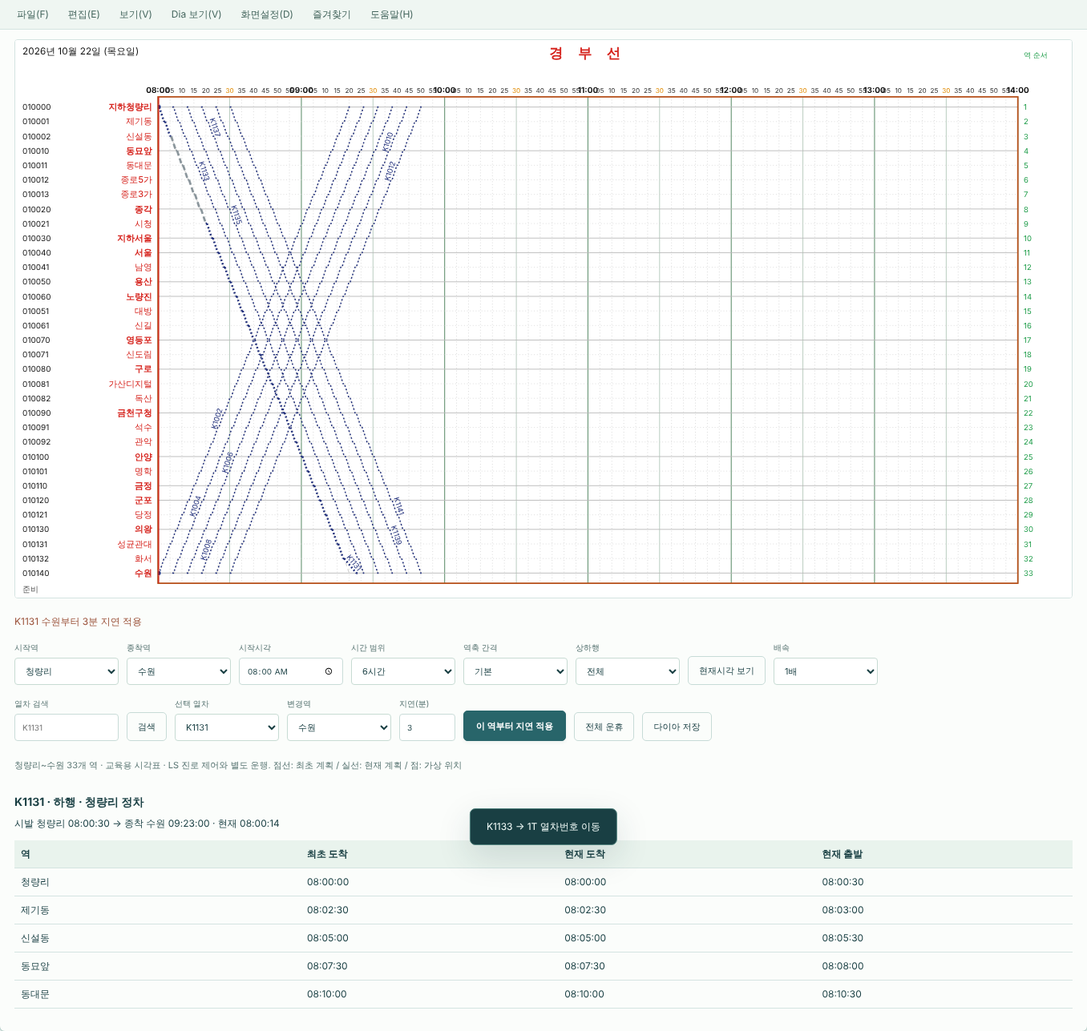
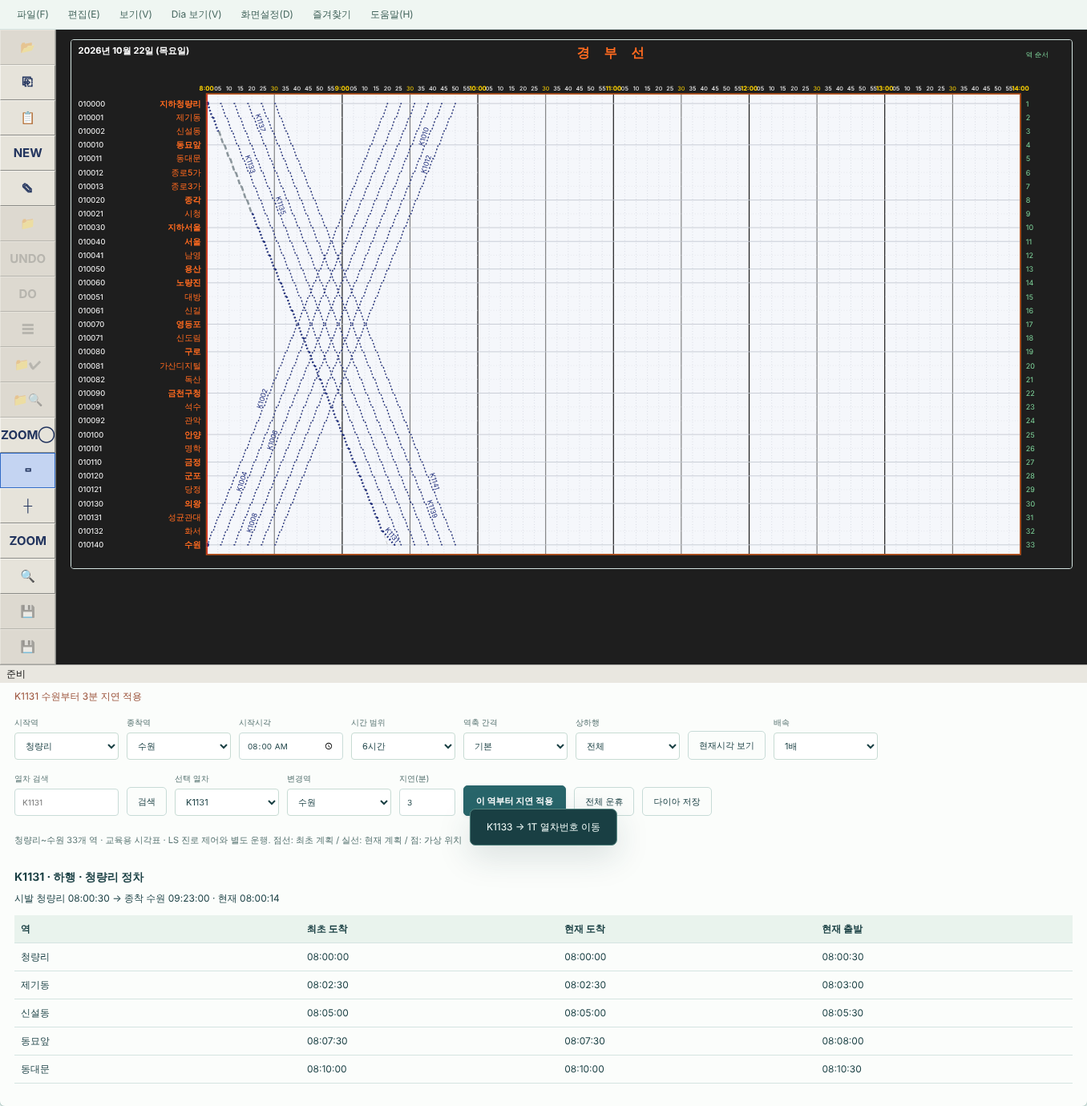
Match the T/G window to the real photos and record the 2026-10-22 photo findings
Dark label column and time band, icon toolbar, 편집 menu with shortcuts, crosshair, area zoom,
tooltip toggle, status bar. Adds references/mmi/photos-2026-10-22.md.

Claude-Session: https://claude.ai/code/session_016wg2Uchd4iKa4FQ1txHsNT

diff --git a/simulator/tg-tools.js b/simulator/tg-tools.js
@@ -1,0 +1,112 @@
+(function(root){
+'use strict';
+// Chrome of the real T/G window (photos 2026-10-21/22): menu bar, the vertical icon toolbar, a status bar ("준비").
+// Confirmed from the photos: the 편집(E) menu entries with their shortcuts and the tooltips 확대영역설정 / 툴팁 보기 / 십자선보기 /
+// 영역 확대 / 돋보기. The other icons are drawn in the photographed order but their functions were never seen, so they are
+// disabled. The behaviour behind the confirmed ones (area zoom, crosshair, …) is the simulator's own interpretation.
+const doc=document,$=id=>doc.getElementById(id),D=()=>root.SimDiagram,T=()=>root.SimTimetable,N=()=>root.SimNetwork;
+const SPANS=[30,60,120,360];
+let copied=null,area=null,areaMode=false,cross=false,graph=null;
+const status=text=>{$('tgStatus').textContent=text;};
+const selectedTrain=()=>$('graphTrain').value;
+
+// the icons in the order photographed (top to bottom); `known` ones are wired, the rest keep an honest "unknown" tooltip
+const TOOLS=[
+ {g:'📂',tip:'(기능명 미확인)'},
+ {g:'⎘',tip:'열차복사(C)',run:'copy'},{g:'📋',tip:'붙여놓기(V)',run:'paste'},{g:'NEW',tip:'열차생성(A)',run:'create'},{g:'✎',tip:'열차정보수정(F5)',run:'edit'},
+ {g:'📁',tip:'(기능명 미확인)'},{g:'UNDO',tip:'(기능명 미확인 · 구현하지 않음)'},{g:'DO',tip:'(기능명 미확인 · 구현하지 않음)'},{g:'☰',tip:'(기능명 미확인)'},
+ {g:'📁✔',tip:'(기능명 미확인)'},{g:'📁🔍',tip:'(기능명 미확인)'},
+ {g:'ZOOM◯',tip:'확대영역설정',run:'areaMode',cls:'area'},{g:'▭',tip:'툴팁 보기',run:'tooltips',cls:'tips'},{g:'┼',tip:'십자선보기',run:'cross',cls:'cross'},
+ {g:'ZOOM',tip:'영역 확대',run:'zoomArea'},{g:'🔍',tip:'돋보기',run:'magnify'},
+ {g:'💾',tip:'(기능명 미확인)'},{g:'💾',tip:'(기능명 미확인)'}
+];
+const MENUS=[
+ {label:'파일(F)'},
+ {label:'편집(E)',items:[{label:'열차복사(C)',key:'Ctrl+C',run:'copy'},{label:'붙여놓기(V)',key:'Ctrl+V',run:'paste'},{label:'열차생성(A)',key:'Ctrl+A',run:'create'},{label:'열차정보수정(F5)',key:'F5',run:'edit'},{label:'노트편집(N)',key:'Ctrl+N',run:'note'}]},
+ {label:'보기(V)'},{label:'Dia 보기(V)'},{label:'화면설정(D)'},{label:'즐겨찾기'},{label:'도움말(H)'}
+];
+
+const ACTIONS={
+ copy(){if(!selectedTrain())return;copied=selectedTrain();status(`${copied} 열차를 복사했습니다.`);},
+ paste(){if(!copied){status('복사한 열차가 없습니다.');return;}root.SimScheduleUI.open('copy',copied);status(`${copied} 복사 스케줄 창을 열었습니다.`);},
+ create(){root.SimScheduleUI.open('create');status('열차생성');},
+ edit(){root.SimScheduleUI.open('edit',selectedTrain());status(`${selectedTrain()} 열차정보수정`);},
+ note(){status('노트편집은 구현하지 않았습니다. 원본 화면을 확인하지 못했습니다.');},
+ tooltips(btn){const on=!(D().getOption('tooltips'));D().setOption('tooltips',on);btn?.setAttribute('aria-pressed',String(on));status(`툴팁 보기 ${on?'켬':'끔'}`);},
+ cross(btn){cross=!cross;btn?.setAttribute('aria-pressed',String(cross));if(!cross)doc.querySelector('#diaCross')?.remove();status(cross?'십자선보기 · 그래프 위에서 시각과 역을 확인하세요.':'십자선보기 끔');},
+ areaMode(btn){areaMode=!areaMode;btn?.setAttribute('aria-pressed',String(areaMode));$('diaSvg').classList.toggle('tg-selecting',areaMode);status(areaMode?'확대영역설정 · 그래프에서 끌어서 영역을 지정한 뒤 영역 확대를 누르세요.':'확대영역설정 끔');},
+ zoomArea(){
+  if(!area){status('먼저 확대영역설정으로 영역을 지정하세요.');return;}
+  const L=D().layout(),[t1,t2]=[area.t1,area.t2].sort((a,b)=>a-b),[o1,o2]=[area.o1,area.o2].sort((a,b)=>a-b);
+  const startSec=Math.floor((t1+8*3600)/60)*60,h=Math.floor(startSec/3600)%24,m=Math.floor(startSec%3600/60),need=(t2-t1)/60;
+  $('graphStart').value=`${String(h).padStart(2,'0')}:${String(m).padStart(2,'0')}`;
+  $('graphSpan').value=String(SPANS.find(s=>s>=need)||360);
+  const from=Math.max(0,Math.floor(o1)),to=Math.min(N().stations.length-1,Math.ceil(o2));
+  if(to>from){$('graphFrom').value=N().stations[from].id;$('graphTo').value=N().stations[to].id;}
+  area=null;for(const id of ['graphFrom','graphSpan'])$(id).dispatchEvent(new Event('change'));status('영역을 확대했습니다.');
+ },
+ magnify(){const i=SPANS.indexOf(Number($('graphSpan').value));if(i<=0){status('더 확대할 수 없습니다.');return;}$('graphSpan').value=String(SPANS[i-1]);$('graphSpan').dispatchEvent(new Event('change'));status(`돋보기 · 시간 범위 ${SPANS[i-1]}분`);}
+};
+
+// svg point -> data (time in seconds from 08:00, station order)
+function toData(e){
+ const svg=$('diaSvg'),L=D().layout();if(!L)return null;
+ const pt=svg.createSVGPoint();pt.x=e.clientX;pt.y=e.clientY;const p=pt.matrixTransform(svg.getScreenCTM().inverse());
+ if(p.x<L.left||p.x>L.left+L.plotW||p.y<L.plotTop||p.y>L.plotTop+L.plotH)return null;
+ return {x:p.x,y:p.y,t:L.start+(p.x-L.left)/L.plotW*L.span,o:L.from+(p.y-L.top)/L.row};
+}
+function drawOverlay(info){
+ const svg=$('diaSvg'),L=D().layout();svg.querySelector('#diaCross')?.remove();if(!L)return;
+ let g='';
+ if(cross&&info)g+=`<line x1="${L.left}" y1="${info.y}" x2="${L.left+L.plotW}" y2="${info.y}" stroke="#d6251f" stroke-dasharray="4 3"/><line x1="${info.x}" y1="${L.plotTop}" x2="${info.x}" y2="${L.plotTop+L.plotH}" stroke="#d6251f" stroke-dasharray="4 3"/>`;
+ if(area){const x1=L.left+(Math.min(area.t1,area.t2)-L.start)/L.span*L.plotW,x2=L.left+(Math.max(area.t1,area.t2)-L.start)/L.span*L.plotW,y1=L.top+(Math.min(area.o1,area.o2)-L.from)*L.row,y2=L.top+(Math.max(area.o1,area.o2)-L.from)*L.row;g+=`<rect x="${x1}" y="${y1}" width="${x2-x1}" height="${y2-y1}" fill="rgba(49,106,197,.18)" stroke="#316ac5" stroke-dasharray="4 3"/>`;}
+ if(g)svg.insertAdjacentHTML('beforeend',`<g id="diaCross" pointer-events="none">${g}</g>`);
+}
+function bindPlot(){
+ const svg=$('diaSvg');let drag=null;
+ svg.addEventListener('pointermove',e=>{
+  const d=toData(e);
+  if(d&&cross){const names=N().stations,idx=Math.max(0,Math.min(names.length-1,Math.round(d.o)));status(`${T().clock(d.t)} · ${root.SimMMI?.stationInfo(names[idx].id).name??names[idx].id}`);}
+  if(drag&&d){area={t1:drag.t,o1:drag.o,t2:d.t,o2:d.o};}
+  drawOverlay(d);
+ });
+ svg.addEventListener('pointerdown',e=>{if(!areaMode)return;const d=toData(e);if(!d)return;drag={t:d.t,o:d.o};area={t1:d.t,o1:d.o,t2:d.t,o2:d.o};svg.setPointerCapture(e.pointerId);e.preventDefault();});
+ svg.addEventListener('pointerup',()=>{if(drag){drag=null;if(area&&Math.abs(area.t1-area.t2)<30&&Math.abs(area.o1-area.o2)<.3)area=null;status(area?'영역을 지정했습니다. 영역 확대를 누르세요.':'확대영역설정');drawOverlay(null);}});
+ // the plot is redrawn every second; keep a selected area/crosshair visible after a redraw
+ new MutationObserver(()=>{if(!svg.querySelector('#diaCross')&&(area||cross))drawOverlay(null);}).observe(svg,{childList:true});
+}
+
+function init(panel){
+ graph=panel;
+ const bar=doc.createElement('div');bar.className='tg-menubar';
+ bar.innerHTML=MENUS.map((m,i)=>`<div class="tg-top"><button type="button" class="tg-menu" ${m.items?'':'title="원본 메뉴 항목을 아직 확인하지 못했습니다"'}>${m.label}</button>${m.items?`<ul class="tg-list">${m.items.map(it=>`<li><button type="button" data-tg-run="${it.run}"><span>${it.label}</span><kbd>${it.key}</kbd></button></li>`).join('')}</ul>`:''}</div>`).join('');
+ graph.insertBefore(bar,graph.firstChild);
+ const closeAll=()=>bar.querySelectorAll('.tg-top.open').forEach(e=>e.classList.remove('open'));
+ bar.addEventListener('click',e=>{
+  const run=e.target.closest('[data-tg-run]');if(run){closeAll();ACTIONS[run.dataset.tgRun]?.();return;}
+  const top=e.target.closest('.tg-top');if(!top)return;const was=top.classList.contains('open');closeAll();
+  if(top.querySelector('.tg-list')){if(!was)top.classList.add('open');}else status('이 메뉴의 원본 항목은 아직 확인하지 못했습니다.');
+ });
+ doc.addEventListener('pointerdown',e=>{if(!e.target.closest('.tg-top'))closeAll();});
+ // body: icon toolbar | plot
+ const scroll=graph.querySelector('.graph-scroll'),body=doc.createElement('div');body.className='tg-body';
+ const tools=doc.createElement('div');tools.className='tg-tools';tools.setAttribute('role','toolbar');tools.setAttribute('aria-label','T/G 도구');
+ tools.innerHTML=TOOLS.map((t,i)=>`<button type="button" class="tg-tool ${t.cls||''}" data-i="${i}" title="${t.tip}" aria-label="${t.tip}" ${t.run?`aria-pressed="${t.run==='tooltips'}"`:'disabled'}><span>${t.g}</span></button>`).join('');
+ // plain action buttons are not toggles
+ for(const b of tools.querySelectorAll('.tg-tool'))if(!['areaMode','tooltips','cross'].includes(TOOLS[b.dataset.i].run))b.removeAttribute('aria-pressed');
+ tools.addEventListener('click',e=>{const b=e.target.closest('.tg-tool');if(!b||b.disabled)return;ACTIONS[TOOLS[b.dataset.i].run]?.(b);});
+ scroll.parentNode.insertBefore(body,scroll);body.append(tools,scroll);
+ const bottom=doc.createElement('div');bottom.id='tgStatus';bottom.className='tg-status';bottom.textContent='준비';bottom.setAttribute('role','status');
+ body.after(bottom);
+ // shortcuts of the 편집(E) menu while the T/G window has focus
+ graph.addEventListener('keydown',e=>{
+  if(e.target.closest('input,select,textarea'))return;
+  const k=e.key.toLowerCase();
+  const map=e.ctrlKey?{c:'copy',v:'paste',a:'create',n:'note'}:{f5:'edit'};
+  const run=map[k];if(run){e.preventDefault();ACTIONS[run]();}
+ });
+ graph.tabIndex=-1;
+ bindPlot();
+}
+root.SimTG={init,actions:ACTIONS};
+})(window);

diff --git a/simulator/diagram-ui.js b/simulator/diagram-ui.js
@@ -1,7 +1,7 @@
 (function(root){
  'use strict';
  const N=root.SimNetwork,T=root.SimTimetable,$=id=>document.getElementById(id);
- const model=T.initial(),subscribers=new Set();let notified=0;let context=null,selected=model.trains[0].id;
+ const model=T.initial(),subscribers=new Set();let notified=0;const options_={tooltips:true};let lastLayout=null,context=null,selected=model.trains[0].id;
  const escape=s=>String(s).replace(/[&<>"']/g,c=>({'&':'&amp;','<':'&lt;','>':'&gt;','"':'&quot;',"'":'&#39;'}[c]));
  const options=N.stations.map(s=>`<option value="${s.id}">${s.name}</option>`).join('');
  function message(text){$('graphMessage').textContent=text;}
@@ -21,20 +21,20 @@
   const x=t=>left+(t-start)/span*plotW,y=order=>top+(order-from)*row,plotTop=top-14,plotH=(to-from)*row+28;
   const info=id=>window.SimMMI?.stationInfo?.(id)||{name:N.catalog[id].name,code:N.catalog[id].code};
   const sod=t=>8*3600+t,day=T.clock(0)&&model.serviceDate?new Date(model.serviceDate+'T00:00:00'):new Date();
-  let svg=`<defs><clipPath id="diaClip"><rect x="${left}" y="${plotTop}" width="${plotW}" height="${plotH}"/></clipPath></defs><rect width="${width}" height="${height}" fill="#fff"/>`;
-  svg+=`<text x="10" y="20" font-size="13" fill="#111">${day.getFullYear()}년 ${day.getMonth()+1}월 ${day.getDate()}일 (${'일월화수목금토'[day.getDay()]}요일)</text><text x="${left+plotW/2}" y="24" text-anchor="middle" font-size="19" font-weight="700" fill="#d6251f" letter-spacing="8">경 부 선</text><text x="${left+plotW+8}" y="24" font-size="10" fill="#1f9d4a">역 순서</text>`;
+  let svg=`<defs><clipPath id="diaClip"><rect x="${left}" y="${plotTop}" width="${plotW}" height="${plotH}"/></clipPath></defs><rect width="${width}" height="${height}" fill="#1e1e1e"/><rect x="${left}" y="${plotTop}" width="${plotW}" height="${plotH}" fill="#f5f7fb"/>`;
+  svg+=`<text x="10" y="20" font-size="13" font-weight="700" fill="#fff">${day.getFullYear()}년 ${day.getMonth()+1}월 ${day.getDate()}일 (${'일월화수목금토'[day.getDay()]}요일)</text><text x="${left+plotW/2}" y="24" text-anchor="middle" font-size="19" font-weight="700" fill="#ff6a1f" letter-spacing="8">경 부 선</text><text x="${left+plotW+8}" y="24" font-size="10" fill="#7ed39a">역 순서</text>`;
   const minor=span<=3600?60:span<=21600?300:600;
   for(let t=Math.ceil(start/minor)*minor;t<=start+span;t+=minor){
    const s=sod(t),hour=s%3600===0,half=s%1800===0,px=x(t).toFixed(1),mm=String(Math.floor((s%3600)/60)).padStart(2,'0');
-   svg+=`<line x1="${px}" y1="${plotTop}" x2="${px}" y2="${plotTop+plotH}" stroke="${hour?'#6f9a7b':half?'#b3c8b9':'#d2d2d2'}" stroke-width="${hour?1.3:1}" ${hour||half?'':'stroke-dasharray="1 3"'}/>`;
-   svg+=hour?`<text x="${px}" y="${plotTop-5}" text-anchor="middle" font-size="11" font-weight="700" fill="#111">${T.clock(t).slice(0,5)}</text>`:`<text x="${px}" y="${plotTop-5}" text-anchor="middle" font-size="9" fill="${half?'#e08a00':'#333'}">${mm}</text>`;
+   svg+=`<line x1="${px}" y1="${plotTop}" x2="${px}" y2="${plotTop+plotH}" stroke="${hour?'#1b1b1b':half?'#555':'#cfd3dc'}" stroke-width="${hour?1.4:1}" ${hour||half?'':'stroke-dasharray="1 3"'}/>`;
+   svg+=hour?`<text x="${px}" y="${plotTop-5}" text-anchor="middle" font-size="9" font-weight="700" fill="#ffd400">${Number(T.clock(t).slice(0,2))}:00</text>`:`<text x="${px}" y="${plotTop-5}" text-anchor="middle" font-size="8.5" fill="${half?'#ffd400':'#fff'}">${mm}</text>`;
   }
   for(const st of N.stations.slice(from,to+1)){
    const i=info(st.id),ry=y(st.order);
-   svg+=`<line x1="${left}" y1="${ry}" x2="${left+plotW}" y2="${ry}" stroke="${st.controlled?'#b9b9b9':'#d6d6d6'}" ${st.controlled?'':'stroke-dasharray="1 3"'}/>`;
-   svg+=`<text x="10" y="${ry+4}" font-size="11" fill="#111" pointer-events="none">${escape(i.code&&i.code!=='—'?i.code:'')}</text>`;
-   svg+=`<text ${st.controlled?`data-dia-station="${st.id}" tabindex="0" role="button" aria-label="${escape(i.name)} LS 열기"`:`data-dia-stop="${st.id}"`} x="${left-8}" y="${ry+4}" text-anchor="end" fill="#d6251f" font-size="12" font-weight="${st.controlled?700:500}">${escape(i.name)}</text>`;
-   svg+=`<text x="${left+plotW+8}" y="${ry+4}" font-size="10.5" fill="#1f9d4a" pointer-events="none">${st.order+1}</text>`;
+   svg+=`<line x1="${left}" y1="${ry}" x2="${left+plotW}" y2="${ry}" stroke="${st.controlled?'#c3c7d0':'#e0e2e8'}" ${st.controlled?'':'stroke-dasharray="1 3"'}/>`;
+   svg+=`<text x="10" y="${ry+4}" font-size="11" fill="#fff" pointer-events="none">${escape(i.code&&i.code!=='—'?i.code:'')}</text>`;
+   svg+=`<text ${st.controlled?`data-dia-station="${st.id}" tabindex="0" role="button" aria-label="${escape(i.name)} LS 열기"`:`data-dia-stop="${st.id}"`} x="${left-8}" y="${ry+4}" text-anchor="end" fill="#ff6a1f" font-size="12" font-weight="${st.controlled?700:500}">${escape(i.name)}</text>`;
+   svg+=`<text x="${left+plotW+8}" y="${ry+4}" font-size="10.5" fill="#7ed39a" pointer-events="none">${st.order+1}</text>`;
   }
   svg+=`<rect x="${left}" y="${plotTop}" width="${plotW}" height="${plotH}" fill="none" stroke="#b8541f" stroke-width="2"/>`;
   svg+='<g clip-path="url(#diaClip)">';
@@ -46,7 +46,7 @@
    const ink=train.cancelled?'#94a3a0':'#1b2a78',pts=points(train.calls);
    svg+=`<path d="${path(points(train.plan))}" stroke="#c6c6c6" stroke-dasharray="5 4" stroke-width="1" fill="none"/>`;
    let currentPath=path(pts);if(!train.cancelled&&train.calls.some(c=>c.cancelled)){currentPath='';for(let i=0;i<train.calls.length;i++){const c=train.calls[i],n=train.calls[i+1];if(!c.cancelled)currentPath+=path([[x(c.arrival),y(N.catalog[c.station].order)],[x(c.departure),y(N.catalog[c.station].order)]]);if(n&&!c.cancelled&&!n.cancelled)currentPath+=path([[x(c.departure),y(N.catalog[c.station].order)],[x(n.arrival),y(N.catalog[n.station].order)]]);}}
-   svg+=`<path data-dia-train="${train.id}" d="${currentPath}" stroke="${ink}" stroke-width="${selected===train.id?2.8:1.7}" stroke-dasharray="${train.cancelled?'8 5':'2 3'}" fill="none"><title>${train.id} · ${train.kind} · ${train.direction==='down'?'하행':'상행'}${train.cancelled?' · 운휴':''} · ${T.clock(train.calls[0].departure)}–${T.clock(train.calls.at(-1).arrival)}</title></path>`;
+   svg+=`<path data-dia-train="${train.id}" d="${currentPath}" stroke="${ink}" stroke-width="${selected===train.id?2.8:1.7}" stroke-dasharray="${train.cancelled?'8 5':'2 3'}" fill="none">${options_.tooltips?`<title>${train.id} · ${train.kind} · ${train.direction==='down'?'하행':'상행'}${train.cancelled?' · 운휴':''} · ${T.clock(train.calls[0].departure)}–${T.clock(train.calls.at(-1).arrival)}</title>`:''}</path>`;
    // Cancelled calls and their connecting legs are shown separately on the same online model.
    if(!train.cancelled)for(let i=0;i<train.calls.length;i++){const c=train.calls[i],next=train.calls[i+1];let p='';if(c.cancelled)p+=path([[x(c.arrival),y(N.catalog[c.station].order)],[x(c.departure),y(N.catalog[c.station].order)]]);if(next&&(c.cancelled||next.cancelled))p+=path([[x(c.departure),y(N.catalog[c.station].order)],[x(next.arrival),y(N.catalog[next.station].order)]]);if(p)svg+=`<path data-dia-cancelled-segment="${train.id}" data-dia-select="${train.id}" d="${p}" stroke="#8b969c" stroke-width="3" stroke-dasharray="7 4" fill="none"/>`;}
    // train number rotated along the longest visible segment
@@ -56,7 +56,7 @@
    const pos=T.position(train,context.clock());if(pos)svg+=`<circle data-dia-position="${train.id}" cx="${x(context.clock())}" cy="${y(pos.order)}" r="3.6" fill="${ink}" stroke="white"/>`;
   }
   const now=x(context.clock());svg+=`<line id="diaNow" data-seconds="${context.clock()}" x1="${now}" y1="${plotTop}" x2="${now}" y2="${plotTop+plotH}" stroke="#d6251f" stroke-width="1.6"/></g>`;
-  svg+=`<text x="10" y="${height-8}" font-size="11" fill="#555">준비</text>`;
+  lastLayout={left,plotW,plotTop,plotH,top,row,from,to,start,span,width,height};
   $('diaSvg').setAttribute('viewBox',`0 0 ${width} ${height}`);$('diaSvg').setAttribute('width',width);$('diaSvg').setAttribute('height',height);$('diaSvg').innerHTML=svg;
   const train=model.trains.find(t=>t.id===selected),pos=T.position(train,context.clock());
   $('graphCancel').textContent=train.cancelled?'운휴 복원':'전체 운휴';
@@ -81,5 +81,5 @@
   $('diaSvg').onkeydown=e=>{if((e.key==='Enter'||e.key===' ')&&e.target.matches('[data-dia-station]')){e.preventDefault();e.target.dispatchEvent(new MouseEvent('click',{bubbles:true}));}};
   $('graphExport').onclick=()=>{const data={schemaVersion:1,kind:'CTC LAB training timetable',sampleSchedule:true,clock:context.clock(),...model};const url=URL.createObjectURL(new Blob([JSON.stringify(data,null,2)],{type:'application/json'}));const a=document.createElement('a');a.href=url;a.download='ctc-lab-dia.json';a.click();setTimeout(()=>URL.revokeObjectURL(url),1000);};
  }
- root.SimDiagram={init,render,getModel:()=>model,subscribe:fn=>{subscribers.add(fn);return ()=>subscribers.delete(fn);},selectTrain};
+ root.SimDiagram={layout:()=>lastLayout,setOption:(k,v)=>{options_[k]=v;render();},getOption:k=>options_[k],init,render,getModel:()=>model,subscribe:fn=>{subscribers.add(fn);return ()=>subscribers.delete(fn);},selectTrain};
 })(window);

diff --git a/simulator/index.html b/simulator/index.html
@@ -48,4 +48,4 @@
 </div><p id="graphMessage" role="status" aria-live="polite"></p><div class="graph-scroll"><svg id="diaSvg" role="img" aria-label="시간과 역을 축으로 한 열차 다이아 그래프"></svg></div><div id="graphDetails"></div>
 </section><footer><span>CTC LAB <b>원본 배선도 기반 v0.15.0</b></span><span>15개 제어역 · 다이아·스케줄 연습 <button class="text-btn" id="footerGuide">근거와 구현 범위 보기 ↗</button></span></footer>
 </main><div id="toast" role="status" aria-live="polite"></div><dialog id="actionDialog"><form method="dialog"><div class="dialog-kicker">L/S CONTROL</div><h2 id="dialogTitle"></h2><div id="dialogBody"></div><div class="dialog-actions"><button value="cancel" formnovalidate class="subtle">아니오 · 취소</button><button value="confirm" class="primary" id="dialogConfirm">예 · 실행</button></div></form></dialog><dialog id="guideDialog"><div class="dialog-kicker">SOURCE & SCOPE</div><h2>매뉴얼 근거와 구현 범위</h2><div class="guide-content"><h3>데스크톱 전용</h3><p>이 실습은 PC의 마우스와 넓은 화면을 사용하는 관제 조작 실습입니다. 모바일 화면과 모바일 검증은 제공하지 않습니다.</p><h3>LS 화면</h3><p>취급역을 선택하면 그 역의 선로·신호기·전환기 이름을 벡터로 새로 그린 LS가 나옵니다. 화면 폭을 모두 사용하고 가운데 정렬합니다. 역 탭의 색 점은 제어모드(AUTO 녹색·CCM 노랑·LOCAL 주황), 숫자는 설정된 진로 수입니다. 좌우 화살표로 인접 취급역을 전환합니다.</p><h3>우클릭 메뉴와 열번창</h3><p>LS 빈 공간을 우클릭하면 베이스스캔·인쇄·재실행·표지판·Overview를 선택합니다. 흰 열번창은 우클릭 또는 더블클릭으로 입력하고, 등록된 번호는 수정·삭제·이동·교환·속성 조회할 수 있습니다. 표지판은 끌어서 이동하고 우클릭으로 고정·삭제합니다. 수동 열차번호와 표지판은 모의 점유·진로 제어와 별도로 표시되며 기록 저장에 포함됩니다.</p><h3>15개 역 제어</h3><p>CCM 모드에서 장내·출발·입환 신호기를 선택하고 진로를 설정하면 선로에 표시됩니다. 같은 구간·전환기를 사용하는 진로는 경합을 거부합니다. 전환기는 LS에 조작 버튼이 없으므로 MMI 선로전환기제어에서 N/R·쇄정·해제를 선택해 조작하고, LS에서는 이름표(반위는 주황)로 상태만 봅니다. N/R은 연결 형태를 기준으로 한 연습 표시입니다.</p><h3>모의 열차와 신호 정지</h3><p>설정된 진로 아래의 모의 열차 진입을 누르면 적색 점유로 바뀌고 신호가 정지합니다. 점유 중 진로 정지·일괄정지는 쇄정을 유지합니다. 모의 열차 통과 후 단일 진로는 해정하고 연속진로는 재설정합니다. 일괄정지는 연속 재설정도 취소합니다.</p><h3>접근쇄정과 오버랩</h3><p>진로 현황판에서 신호기별 접근 열차를 투입한 뒤 그 신호를 정지하면 진로가 장내 90초·출발 30초 동안 쇄정되고, 남은 시간이 지나야 해정됩니다. 쇄정 중에는 같은 진로·경합 진로 설정, 전환기 조작, 모의 열차 진입이 거부됩니다. 접근 열차가 없으면 즉시 해정됩니다.</p><h3>출처와 현재 범위</h3><p>신호기 246개·전환기 그룹 118개를 배선 추적 데이터(wiring.js)에서 읽어 LS를 다시 그렸습니다. 연결로 도출한 경로 654개 중 120개는 실무5 부록 A·비상시조치 대본의 기본 경로 예시 또는 기존 MMI 목록과 대조했습니다. 메뉴는 교재·대본 대조 경로와 배선 연결 경로를 구분합니다.</p><p>실설비 전체 진로표·정반위 조건표·측방방호·등색 조합은 검증 완료하지 않았습니다. 접근쇄정(장내 90초·출발 30초)은 교재 구술 8번 정의에 따라 접근 열차를 투입한 뒤 신호를 정지할 때만 걸립니다. 오버랩은 교재 대본에 나온 금천구청 2B-6T·1B-1T와 영등포 1A-1T만 구현했으며 그 밖의 진로는 미구현입니다. 모의 점유는 경로 단위 입력이며 실제 열차 추적·궤도별 순차 해정은 아닙니다. 온라인 다이아·스케줄은 별도 교육용 운행 모델입니다.</p></div><button class="primary" id="closeGuide">확인</button></dialog>
-<script src="wiring.js?v=150"></script><script src="wings.js?v=150"></script><script src="schematic-details.js?v=150"></script><script src="train-windows.js?v=150"></script><script src="ls-switches.js?v=150"></script><script src="ls-view.js?v=150"></script><script src="network.js?v=150"></script><script src="interlocking.js?v=150"></script><script src="route-menus.js?v=150"></script><script src="core.js?v=150"></script><script src="practice.js?v=150"></script><script src="schedule-routes.js?v=150"></script><script src="timetable.js?v=150"></script><script src="diagram-ui.js?v=150"></script><script src="schedule-ui.js?v=150"></script><script src="ls-operations.js?v=150"></script><script src="ls-context.js?v=150"></script><script src="mmi-trains.js?v=150"></script><script src="mmi-windows.js?v=151"></script><script src="mmi.js?v=150"></script><script src="app.js?v=150"></script></body></html>
+<script src="wiring.js?v=150"></script><script src="wings.js?v=150"></script><script src="schematic-details.js?v=150"></script><script src="train-windows.js?v=150"></script><script src="ls-switches.js?v=150"></script><script src="ls-view.js?v=150"></script><script src="network.js?v=150"></script><script src="interlocking.js?v=150"></script><script src="route-menus.js?v=150"></script><script src="core.js?v=150"></script><script src="practice.js?v=150"></script><script src="schedule-routes.js?v=150"></script><script src="timetable.js?v=150"></script><script src="diagram-ui.js?v=150"></script><script src="schedule-ui.js?v=150"></script><script src="tg-tools.js?v=151"></script><script src="ls-operations.js?v=150"></script><script src="ls-context.js?v=150"></script><script src="mmi-trains.js?v=150"></script><script src="mmi-windows.js?v=151"></script><script src="mmi.js?v=150"></script><script src="app.js?v=150"></script></body></html>

diff --git a/simulator/mmi.css b/simulator/mmi.css
@@ -141,3 +141,23 @@
 .trc-mon[aria-pressed="true"]{border-color:#316ac5;color:#316ac5}.trc-mon:disabled{opacity:.5;cursor:not-allowed}
 .trc-msg,.trc .idm-buttons{grid-column:1/-1}.trc-msg{min-height:18px;padding:2px 6px;background:#f6f6f4;border:1px solid #b9b9b4}
 .rpt-table{height:260px}
+
+/* T/G window chrome after the real photos: dark label column, icon toolbar, "준비" status bar */
+.mmi-win .graph-panel>.tg-body{order:1}.mmi-win .graph-panel>.tg-status{order:2}
+.mmi-win .graph-panel>#graphMessage{order:3}.mmi-win .graph-panel>.graph-toolbar{order:4}
+.mmi-win .graph-panel>.graph-notice{order:5}.mmi-win .graph-panel>#graphDetails{order:6}
+.tg-body{display:flex;align-items:flex-start;background:#1e1e1e}
+.tg-tools{display:flex;flex-direction:column;flex:0 0 54px;background:#ddd9d0;border-right:1px solid #8a8a86}
+.tg-tool{height:44px;border:1px solid #f4f2ec;border-right-color:#8a8a86;border-bottom-color:#8a8a86;background:#e6e3da;padding:0;font-size:11px;font-weight:700;color:#22345e;cursor:default;overflow:hidden}
+.tg-tool span{display:block;line-height:1.1;font-size:15px}
+.tg-tool:disabled{color:#8a8a86;background:#dedbd2}
+.tg-tool:hover:not(:disabled){background:#d9e2f6}
+.tg-tool[aria-pressed="true"]{background:#c4d4f2;border-color:#316ac5}
+.tg-body .graph-scroll{flex:1;min-width:0;background:#1e1e1e}
+.tg-status{padding:2px 8px;background:#e9e7e0;border-top:1px solid #a6a6a2;font-size:12px;color:#111}
+#diaSvg.tg-selecting{cursor:crosshair}
+.tg-top{position:relative}
+.tg-list{display:none;position:absolute;left:0;top:100%;min-width:230px;margin:0;padding:2px;list-style:none;background:#f6f6f4;border:1px solid #6d6d6a;box-shadow:3px 3px 6px rgba(0,0,0,.3);z-index:400}
+.tg-top.open>.tg-list{display:block}
+.tg-list button{display:flex;justify-content:space-between;gap:24px;width:100%;padding:5px 12px;border:0;background:transparent;font-size:12px;color:#111;cursor:default;text-align:left}
+.tg-list button:hover{background:#316ac5;color:#fff}.tg-list kbd{font:inherit;color:inherit;opacity:.75}

diff --git a/simulator/mmi.js b/simulator/mmi.js
@@ -158,10 +158,7 @@ function init(){
  createWindow('field',{title:'현장설비제어',x:18,y:14,width:560,host:field});
  windows.field.el.hidden=false;dock('field',true);
  if(graph){
-  const bar=doc.createElement('div');bar.className='tg-menubar';
-  bar.innerHTML=['파일(F)','편집(E)','보기(V)','Dia 보기(V)','화면설정(D)','즐겨찾기','도움말(H)'].map(n=>`<button type="button" class="tg-menu" title="원본 메뉴 항목을 아직 확인하지 못했습니다">${n}</button>`).join('');
-  graph.insertBefore(bar,graph.firstChild);
-  bar.addEventListener('click',e=>{if(e.target.closest('.tg-menu'))$('graphMessage').textContent='이 메뉴의 원본 항목은 아직 확인하지 못했습니다. 아래 교육용 도구로 시간 범위·검색·지연·운휴를 조작하세요.';});
+  root.SimTG.init(graph);
   const w=createWindow('graph',{title:'ORPHEIA CTC ONLINE T/G',x:6,y:6,width:Math.min(1480,Math.max(900,desktop.clientWidth-14)),host:graph});w.opener=()=>{$('onlineGraphBtn')?.click();};w.closer='closeGraph';w.docked=true;w.el.classList.add('docked');}
  if(schedule){const w=createWindow('schedule',{title:'[CA028_02] 온라인 열차스케줄관리',x:300,y:420,width:1100,host:schedule});w.opener=()=>{$('onlineScheduleBtn')?.click();};w.closer='closeSchedule';}
  if(host)root.SimMMITrains.init(host);

diff --git a/simulator/schedule-ui.js b/simulator/schedule-ui.js
@@ -133,4 +133,5 @@
  $('schedulePatternOpen').onclick=openPattern;
  $('scheduleApply').onclick=apply;
  $('scheduleSuspend').onclick=()=>cancelRange(true);$('scheduleResume').onclick=()=>cancelRange(false);
+ root.SimScheduleUI={open(m,id){const M=root.SimMMI;M.open('schedule');document.querySelector(`input[name="scheduleMode"][value="${m}"]`).checked=true;$('scheduleSearch').value='';list(id||selectedId());load();}};
 })(window);

diff --git a/simulator/tg-tools.browser.test.py b/simulator/tg-tools.browser.test.py
@@ -1,0 +1,94 @@
+"""T/G chrome from the photos: 편집 menu, icon toolbar, crosshair, area zoom, copy/paste/create/edit (Chromium)."""
+from functools import partial
+from http.server import SimpleHTTPRequestHandler, ThreadingHTTPServer
+from pathlib import Path
+from threading import Thread
+from playwright.sync_api import sync_playwright, expect
+
+ROOT = Path(__file__).resolve().parent
+
+
+class Quiet(SimpleHTTPRequestHandler):
+    def log_message(self, *_a):
+        pass
+
+
+def open_graph(page):
+    page.locator('.mmi-top-btn', has_text='열차스케줄').click()
+    page.locator('.mmi-menu-list [data-mmi-open="graph"]').first.click()
+
+
+def run(page, url):
+    errors = []
+    page.on('pageerror', lambda e: errors.append(str(e)))
+    page.goto(url, wait_until='networkidle')
+    open_graph(page)
+    expect(page.locator('#tgStatus')).to_have_text('준비')
+    # 편집(E) menu entries and shortcuts exactly as photographed
+    page.locator('.tg-menu', has_text='편집(E)').click()
+    items = page.locator('.tg-top.open .tg-list li button').all_inner_texts()
+    flat = [' '.join(i.split()) for i in items]
+    assert flat == ['열차복사(C) Ctrl+C', '붙여놓기(V) Ctrl+V', '열차생성(A) Ctrl+A', '열차정보수정(F5) F5', '노트편집(N) Ctrl+N'], flat
+    page.keyboard.press('Escape'); page.locator('.tg-menu', has_text='편집(E)').click()  # close
+    # tooltips of the icons that were photographed
+    for tip in ['확대영역설정', '툴팁 보기', '십자선보기', '영역 확대', '돋보기']:
+        assert page.locator(f'.tg-tool[title="{tip}"]').count() == 1, tip
+    assert page.locator('.tg-tool').count() == 18
+    assert page.locator('.tg-tool:disabled').count() >= 8
+    # copy -> paste opens the schedule window in copy mode for that train
+    page.locator('#graphTrain').select_option('K1133')
+    page.locator('.tg-tool[title="열차복사(C)"]').click()
+    expect(page.locator('#tgStatus')).to_contain_text('K1133')
+    page.locator('.tg-tool[title="붙여놓기(V)"]').click()
+    expect(page.locator('input[name="scheduleMode"][value="copy"]')).to_be_checked()
+    expect(page.locator('#scheduleList')).to_have_value('K1133')
+    page.locator('[data-mmi-window="schedule"] .mmi-close').click()
+    page.locator('.tg-tool[title="열차생성(A)"]').click()
+    expect(page.locator('input[name="scheduleMode"][value="create"]')).to_be_checked()
+    page.locator('[data-mmi-window="schedule"] .mmi-close').click()
+    page.locator('.tg-tool[title="열차정보수정(F5)"]').click()
+    expect(page.locator('input[name="scheduleMode"][value="edit"]')).to_be_checked()
+    expect(page.locator('#scheduleSelected')).to_have_value('K1133')
+    page.locator('[data-mmi-window="schedule"] .mmi-close').click()
+    # tooltips toggle removes the <title> of the train lines
+    assert page.locator('[data-dia-train] title').count() > 0
+    page.locator('.tg-tool[title="툴팁 보기"]').click()
+    assert page.locator('[data-dia-train] title').count() == 0
+    page.locator('.tg-tool[title="툴팁 보기"]').click()
+    # crosshair: status shows time and station under the pointer
+    page.locator('.tg-tool[title="십자선보기"]').click()
+    box = page.locator('#diaSvg').bounding_box()
+    page.mouse.move(box['x'] + box['width'] * 0.4, box['y'] + box['height'] * 0.5)
+    expect(page.locator('#diaCross')).to_have_count(1)
+    assert ':' in page.locator('#tgStatus').inner_text() and ' · ' in page.locator('#tgStatus').inner_text()
+    page.locator('.tg-tool[title="십자선보기"]').click()
+    expect(page.locator('#diaCross')).to_have_count(0)
+    # area zoom: drag an area, then 영역 확대 narrows time span and stations
+    page.locator('.tg-tool[title="확대영역설정"]').click()
+    box = page.locator('#diaSvg').bounding_box()
+    sx, sy = box['x'] + box['width'] * 0.25, box['y'] + box['height'] * 0.3
+    page.mouse.move(sx, sy); page.mouse.down(); page.mouse.move(sx + 120, sy + 90, steps=6); page.mouse.up()
+    expect(page.locator('#tgStatus')).to_contain_text('영역을 지정')
+    page.locator('.tg-tool[title="영역 확대"]').click()
+    assert page.locator('#graphSpan').input_value() in ('30', '60', '120'), page.locator('#graphSpan').input_value()
+    assert page.locator('#graphFrom').input_value() != 'cheongnyangni' or page.locator('#graphTo').input_value() != 'suwon'
+    page.locator('.tg-tool[title="확대영역설정"]').click()
+    # magnifier halves the span when possible
+    page.locator('#graphSpan').select_option('120'); page.locator('.tg-tool[title="돋보기"]').click()
+    assert page.locator('#graphSpan').input_value() == '60'
+    # dark label column / header like the real T/G
+    fills = page.locator('#diaSvg > rect').first.get_attribute('fill')
+    assert fills == '#1e1e1e', fills
+    assert not errors, errors
+
+
+with sync_playwright() as p:
+    server = ThreadingHTTPServer(('127.0.0.1', 0), partial(Quiet, directory=str(ROOT)))
+    Thread(target=server.serve_forever, daemon=True).start()
+    browser = p.chromium.launch(executable_path='/usr/bin/chromium', headless=True, args=['--no-sandbox'])
+    for width, height in [(1440, 1000), (1920, 1080)]:
+        page = browser.new_page(viewport={'width': width, 'height': height})
+        run(page, f'http://127.0.0.1:{server.server_port}/')
+        print(f'PASS T/G chrome: 편집 menu, icon toolbar, copy/paste/create/edit, tooltips, crosshair, area zoom at {width}x{height}')
+        page.close()
+    browser.close(); server.shutdown()

diff --git a/references/mmi/photos-2026-10-22.md b/references/mmi/photos-2026-10-22.md
@@ -1,0 +1,38 @@
+# 실물 MMI·T/G·LS 사진 판독 (2026-10-22, 사용자 촬영 15장)
+
+사진 원본은 저장소에 넣지 않았습니다(장당 약 1.5MB). 아래는 사진에서 **실제로 읽은 것**만 적었습니다. 읽지 못한 것은 "미확인"입니다.
+학교 로고(송원대학교)는 쓰지 않고 ORPHEIA 패러디로 대체합니다. 사진 속 스케줄명·작성자 등 실제 개인/기관 데이터는 옮기지 않았습니다.
+
+## MMI 메뉴 (제목줄 "SWU MMI")
+- 프로그램: 로그재생(R) / 도구모음설정 ▸ {메뉴바, 상태표시줄(✓ 표시), —, 이벤트로그창, 알람로그창} / 프로그램 환경설정
+- 현장제어: 현장설비제어(A) / 열차제어 ▸ {열차번호제어(B), 열차추적(T)}
+- 시스템 조회: 경광등상태 / 알람메시지 확인이력 조회 / 수동제어 이력 조회 ▸ {열차번호 수동조작 이력, 역제어모드 수동조작 이력, 현장설비 수동조작 이력} / — / 열차위치목록 조회 / — / 열차스케줄 이력조회 ▸ {온라인 스케줄 이력} / 알람/이벤트조회 / — / 실적조회 ▸ {역실적 조회, 열차실적 조회, —, 운휴열차조회, 임시열차 조회, 지연열차조회}
+- 시스템 관리: 제어화면 관리 ▸ {운영자선호화면 설정, —, 모니터 위치 설정, RAIL Track ROUTE, FTS 스케줄편집} (이 메뉴의 다른 항목은 사진에 없음)
+- 화면 아래: 알람 로그(구분/시간/알람내역). 예) `[안내] 2026/10/21 15:46:42 금천구청역 RT_4A_B644T진로설정`
+
+## [CA018_05] 진입예고열차정리
+- 왼쪽 "진입예고열차정보": 역정보·신호기 입력칸, 표(순번/열차번호/출발시간/종착역/날짜), 버튼 선택열차삭제·선택열차이전삭제.
+- 가운데 "진입예고열차검색": 신호기(예 `SG_4A`), 구간정보(경부선), 역정보 목록(청량리 [010000], 지하서울 [010030] — 이 두 역만 보임), 진입예고열차표시.
+- 오른쪽 "진입예고열차등록": 열차선택(상행/하행), 열차번호 목록, 열차등록·등록열차검색. 닫기.
+- **미확인**: 각 버튼의 실제 동작, 이 두 역만 나오는 이유. 구현은 교육용 해석입니다.
+
+## [CA028_01] 온라인열차스케줄ID관리
+- 운행일 선택(년 스핀, 월), 표시정보(설정=노랑/비설정), 노선(경부선), 온라인 열차스케줄 ID 목록(날짜/스케줄명/작성자/작성일).
+- 가운데 6개월 달력(설정된 날짜는 노랑). 오른쪽 "열차스케줄 ID 설정": 설정일자 오늘/내일, 설정된 스케줄ID·명, 검색조건(노선 01-경부선, 구분 9-응시자), 검색, 열차스케줄 ID 목록(스케줄ID/스케줄명).
+- 버튼: 온라인열차스케줄 ID 검색 / 온라인 ID 예약적용 / 오프라인ID 실시간변경 / 닫기.
+
+## [CF003_1] 열차위치추적
+- 열차번호: 노선(경부선), 전체/상행/하행, [열차번호목록] 버튼, 현재 열차번호, 목록(K0004, K0010, K0011, K0013).
+- 오른쪽 "LS 화면 선택": 모니터 1·2·3 그림. 메시지 `>> 총 [4]건의 운행열차번호를 수신하였습니다.` 버튼 추적시작/추적종료/닫기.
+
+## T/G ("SWON CTC ONLINE T/G")
+- 메뉴: 파일(F) 편집(E) 보기(V) Dia 보기(V) 화면설정(D) 즐겨찾기 도움말(H). **편집(E)**: 열차복사(C) Ctrl+C / 붙여놓기(V) Ctrl+V / 열차생성(A) Ctrl+A / 열차정보수정(F5) F5 / 노트편집(N) Ctrl+N. 다른 메뉴는 열어 보지 않음.
+- 왼쪽 세로 아이콘 막대 18개(위→아래: 폴더, 복사, 붙여넣기, NEW, 편집, 폴더, UNDO, DO, 줄 목록, 폴더✔, 폴더🔍, ZOOM◯, 도표(흰 상자), 십자 도표, ZOOM, 돋보기 도표, 저장, 저장). 툴팁으로 확인한 것: ZOOM◯=확대영역설정, 흰 상자 도표=툴팁 보기, 십자 도표=십자선보기, ZOOM=영역 확대, 돋보기 도표=돋보기. 나머지 아이콘의 기능명은 미확인(2~5번은 편집 메뉴 순서에서 추정).
+- 화면: 검은 배경의 왼쪽 열(흰 6자리 코드 + 주황 역명), 위쪽 검은 시각 띠(분은 흰색, 30분·정시는 노랑, 정시 표기 `6:00`, `7:00`), 주황 테두리 플롯, 연한 점선 격자, 정시·30분 세로선 굵게. 맨 아래 상태줄 "준비". 날짜 `2026년 10월 22일 (목요일)`.
+- 역 목록과 코드: 010000 지하청량리, 010001 제기동, 010002 신설동, 010010 동묘앞, 010011 동대문, 010012 종로5가, 010013 종로3가, 010020 종각, 010021 시청, 010030 지하서울, 010040 서울, 010041 남영, 010050 용산, 010060 노량진, 010051 대방, 010061 신길, 010070 영등포, 010071 신도림, 010080 구로, 010081 가산디지털, 010082 독산, 010090 금천구청, 010091 석수, 010092 관악, 010100 안양, 010101 명학, 010110 금정, 010120 군포, 010121 당정, 010130 의왕, 010131 성균관대, 010132 화서, 010140 수원. (노량진→대방→신길 순서가 코드 순서와 다르게 표에 놓임: 010060 다음 010051, 010061)
+
+## LS 화면 (지하청량리, GPT 담당 — 참고용)
+- 위쪽 버튼: AUTO(흰)·CCM(노랑, 선택 모드)·LOCAL(흰), "신호기 일괄정지"(흰), 역 이름판은 **파란 바탕에 흰 글씨** `지하청량리 / 010000`.
+- 우측 상태 칩(5×2): N1 EIS1 C DTS1 REC UPS ShP RC N2 EIS2 DTS2. 색: 초록=정상(N1, C, REC, UPS, ShP, EIS1, DTS1), 흰=비활성(N2, RC), 노랑(EIS2, DTS2).
+- 떠 있는 작은 창: **선로상태 표시**(제목줄 회색, 본문 빨강) — `열차선단전`, `사용자입력`, `선로일시사용정지`, `폐색방식변경`, `열간작업`. **서행표시**(노랑 본문, 빨간 글자, 닫기 X) — `서행표시`. 모두 선로 위에 겹쳐 반투명하게 보임.
+- **승강장은 주황색 사각형**으로 그려짐(1T·2T 사이). 신호기 위쪽에 번호/구간 표시칸(흰 직사각형)이 여러 개 있음(열번창).

diff --git a/CHANGELOG.md b/CHANGELOG.md
@@ -1,3 +1,10 @@
+# 미출시 (Claude, 2026-10-22 사진 반영)
+- MMI 메뉴를 사진 기준으로 확장: 프로그램·시스템 조회·시스템 관리(제어화면 관리) 항목과 구분선, 도구모음설정의 알람/이벤트 로그창 켜기·끄기.
+- `[CA028_01]` 온라인열차스케줄ID관리(6개월 달력·ID 예약), `[CA018_05]` 진입예고열차정리(등록·표시·삭제), `[CF003_1]` 열차위치추적(열차 선택 후 LS 화면 자동 이동) 창 추가.
+- 시스템 조회 목록(열차위치·운휴·임시·지연·스케줄 이력·알람/이벤트·수동조작 이력)은 시뮬레이터 자료로 만든 교육용 표입니다. 원본 화면은 확인하지 못했습니다.
+- T/G를 실물 사진에 맞춤: 검은 역 열·시각 띠·주황 테두리, 왼쪽 18개 아이콘 막대, 편집(E) 메뉴와 단축키(열차복사·붙여놓기·열차생성·열차정보수정), 십자선보기·툴팁 보기·확대영역설정/영역 확대·돋보기, 상태줄 "준비".
+- 사진 판독 기록: `references/mmi/photos-2026-10-22.md` (LS 화면의 선로상태 표시 창·상태 칩 색·주황 승강장 정보 포함).
+
 # v0.15.0 (2026-10-21)
 
 - 메인 컬러 `#BEE3E3`, 짙은 청록·금색 포인트의 오르페이아 시각 체계 적용.
